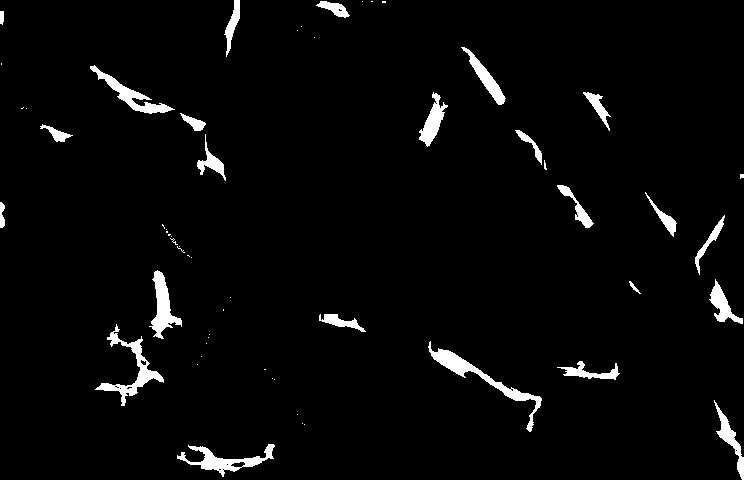
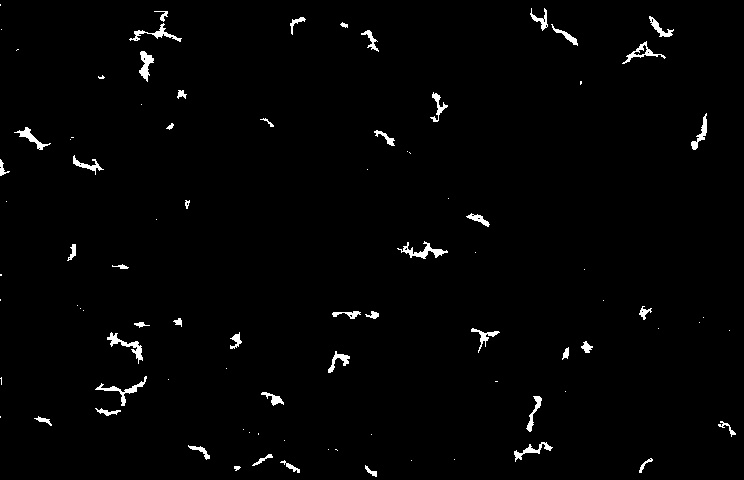
testing marker

diff --git a/findBloodVessels.py b/findBloodVessels.py
@@ -9,6 +9,7 @@ import hlpr
 import numpy as np
 import cv2  
 import heapq  
+import anaFunc
     
 def findRidge(scale,img):
     scaled_img = []
@@ -21,8 +22,6 @@ def findRidge(scale,img):
     
     return ridge
     
-    
-    
 def ridgeStrength(scale,img):
     ridge_str_cuboid = hlpr.RidgeStrCuboid(img,scale)
 
@@ -31,13 +30,20 @@ def ridgeStrength(scale,img):
     scale_deriv = ridge_str_cuboid.getScaleDeriv()
     scale_deriv2 = ridge_str_cuboid.getScaleDeriv2()
         
-    bin1 = np.around(scale_deriv) == 0
+    #bin1 = np.around(scale_deriv) == 0
+    bin1 = (scale_deriv < 1000000)*(scale_deriv>-1000000)
+    #bin1 = np.ones(np.shape(ridge_str_cuboid))  # testing purpose
     bin2 = scale_deriv2 < 0
     bin3 = (bin1*bin2)*ridge_str_cuboid.cuboid
     ######################################################
+    bin1 = bin1.astype(np.uint8)*255
+    bin2 = bin2.astype(np.uint8)*255
     bin4 = (bin3 > 0).astype(np.uint8)*255
+    #anaFunc.plotRidgeStrAlongScale(ridge_str_cuboid.cuboid[:,:,2:-4],[(334,230),(293,291),(511,254),(394,350)])
+    #ridge_str_cuboid = (ridge_str_cuboid.cuboid/np.amax(ridge_str_cuboid.cuboid)*255).astype(np.uint8)
     for i in range(len(scale)):
-        cv2.imwrite('output/ridgeStrength_results/marker'+str(i)+'.jpg',bin4[:,:,i])
+        cv2.imwrite('output/ridgeStrength_results/bin_one'+str(i)+'.jpg',bin1[:,:,i])
+        #cv2.imwrite('output/ridgeStrength_results/bin_two'+str(i)+'.jpg',bin2[:,:,i])
     return bin3
     
 def connectRidgePeaks(cuboid):
@@ -64,19 +70,20 @@ def nStrongestRidges(n,ridges):
         strongest.append(ridges[index])
     return strongest
         
-img = cv2.imread('input/test.bmp',cv2.IMREAD_GRAYSCALE)
+img = cv2.imread('input/marker.bmp',cv2.IMREAD_GRAYSCALE)
 #img = cv2.pyrDown(img)
 
-scale = np.arange(100,300,1)
-ridge_cuboid = findRidge(scale,img)
+scale = np.arange(1,30,1)
+#ridge_cuboid = findRidge(scale,img)
 ridge_str_peak = ridgeStrength(scale,img)
+
+#bin = ridge_cuboid*ridge_str_peak
+#for i in range(np.size(bin,2)):
+#    cv2.imwrite('output/findBloodVessels_results/marker'+str(i)+'.jpg',bin[:,:,i]*255)
 """
-bin = ridge_cuboid*ridge_str_peak
 ridges = connectRidgePeaks(bin)
 strongest = nStrongestRidges(100,ridges)
-
-i = 0
-
+#i = 0
 #for ridge in strongest:
 #    cv2.imwrite('output/strongest_results/strongest'+str(i)+'.jpg',ridge.getImg())
 #    i += 1
@@ -87,7 +94,4 @@ for ridge in strongest:
 combined = combined > 0
 combined = combined.astype(np.uint8)*255
 cv2.imwrite('combined.jpg',combined)
-
 """
-#for i in range(np.size(bin,2)):
-#    cv2.imwrite('output/findBloodVessels_results/vessels'+str(i)+'.jpg',bin[:,:,i]*255)

diff --git a/anaFunc.py b/anaFunc.py
@@ -10,6 +10,7 @@ import numpy as np
 from mpl_toolkits.mplot3d import Axes3D
 import hlpr
 
+"""
 def plotImg(img):
     fig = plt.figure()
     ax = fig.add_subplot(111, projection='3d')
@@ -23,3 +24,23 @@ img = cv2.imread('input/test.bmp',cv2.IMREAD_GRAYSCALE)
 img = cv2.pyrDown(img)
 img = hlpr.getScaledImg(img,225)
 plotImg(img)
+"""
+
+"""
+def getCoord(event,x,y,flags,param):
+    if event == cv2.EVENT_LBUTTONDOWN:
+        print (x,y)
+        
+img = cv2.imread('input/marker.bmp',cv2.IMREAD_GRAYSCALE)
+cv2.namedWindow("image")
+cv2.setMouseCallback("image", getCoord)
+cv2.imshow('image',img)
+cv2.waitKey()
+cv2.destroyAllWindows()
+"""
+
+def plotRidgeStrAlongScale(cuboid,coords):
+    for coord in coords:
+        y = cuboid[coord[1],coord[0],:]
+        plt.plot(y)
+        
